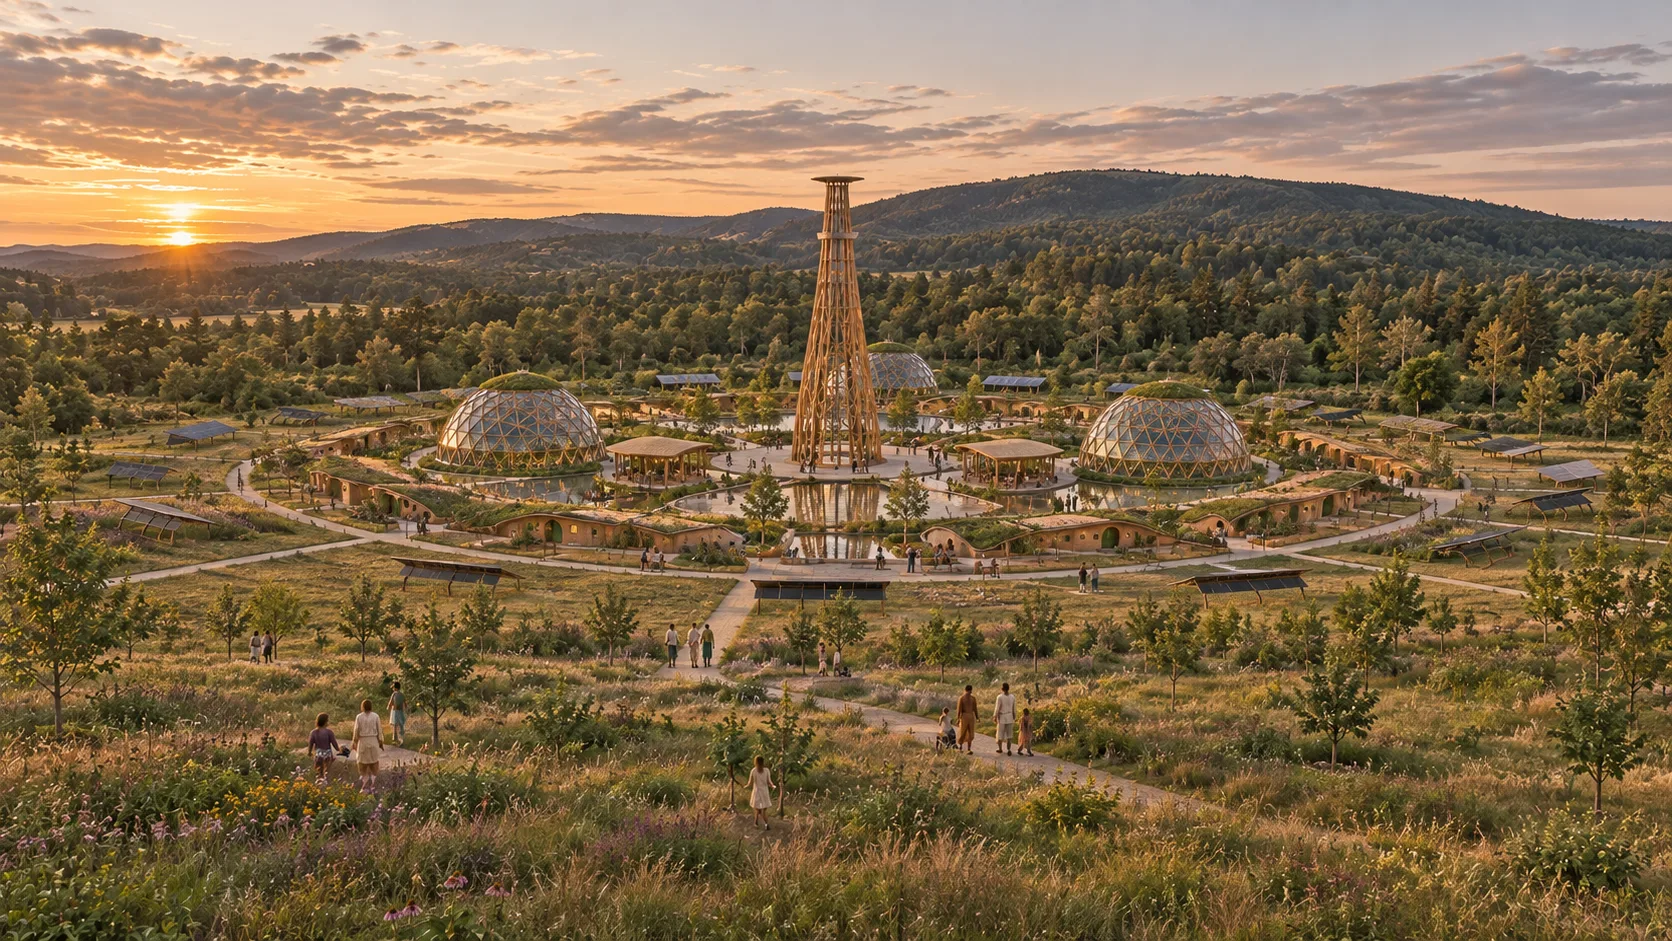
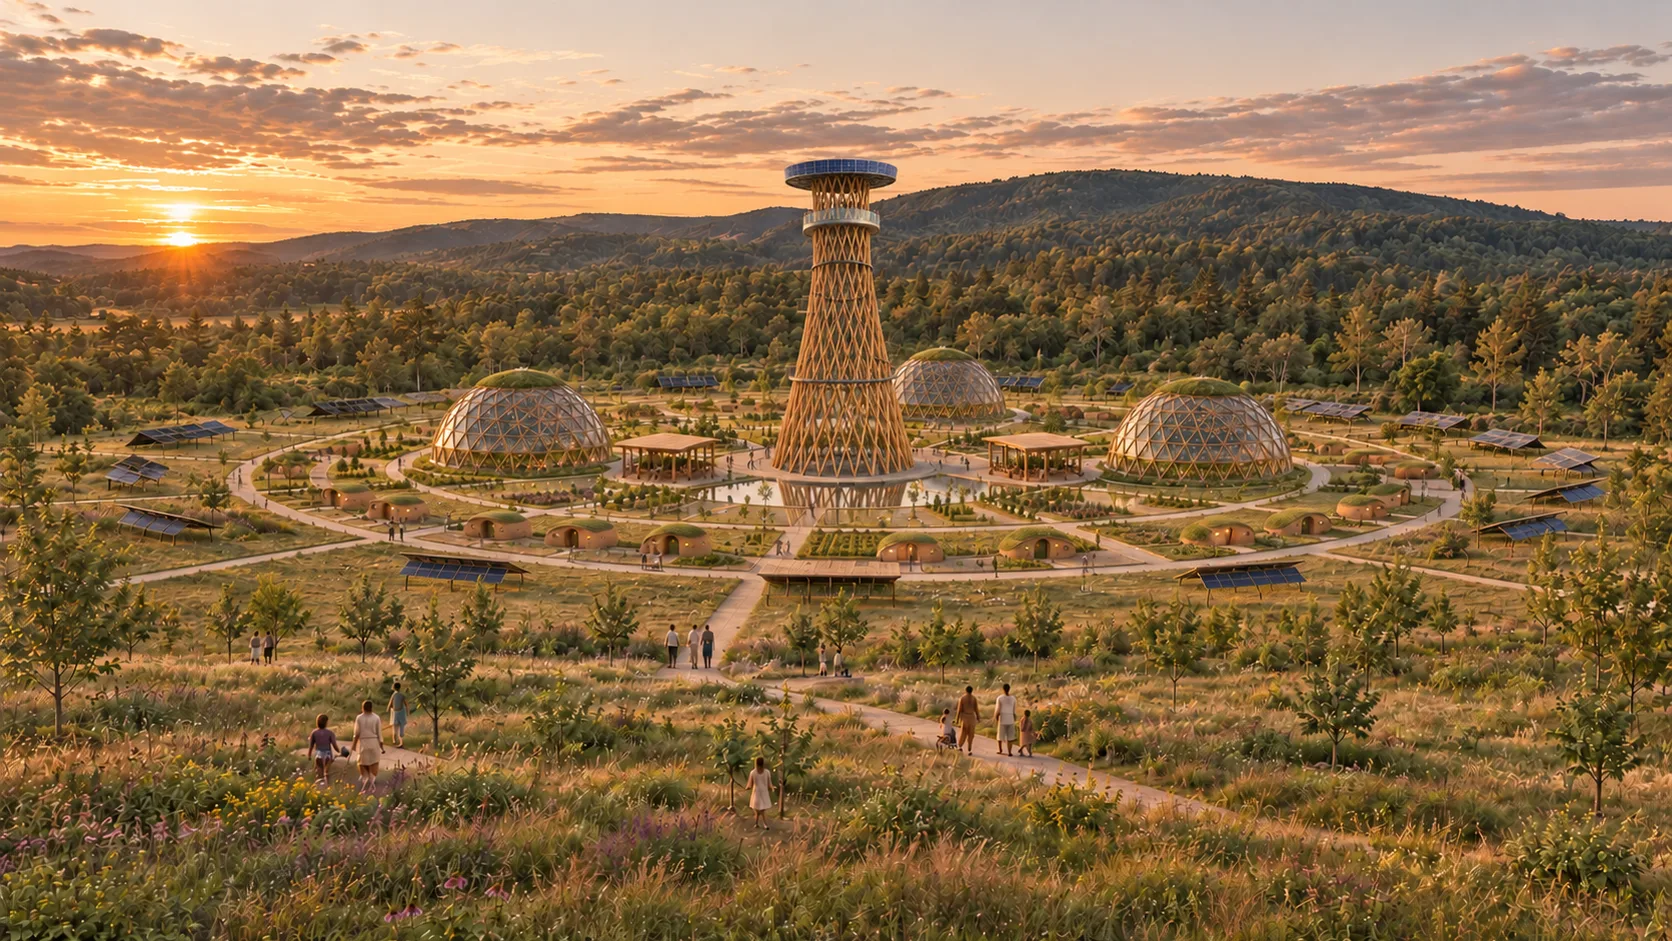
Fix homepage 3D model link, trim model views, redraw hero and spire (#24)
- Homepage: static files (the 3D model) are no longer sent through the client
  router, which showed a 404; 3D model link moved from the top menu to the footer
- 3D model: three view buttons (Aerial, Plan, Street level); other views stay
  available by URL for reference renders
- Hero and spire images redrawn to match the current build: wide-based stacked
  Shukhov-style lattice spire with a solar crown; alt text and docs updated

diff --git a/website/src/pages/index.tsx b/website/src/pages/index.tsx
@@ -12,7 +12,7 @@ export default function Home(): JSX.Element {
   const base = useBaseUrl('/');
   const history = useHistory();
   const rootRef = useRef<HTMLDivElement>(null);
-  const key = (siteConfig.customFields as {web3formsAccessKey?: string} | undefined)?.web3formsAccessKey ?? '';
+  const endpoint = (siteConfig.customFields as {formsEndpoint?: string} | undefined)?.formsEndpoint ?? '';
   const u = (p: string) => base + p;
   const img = (n: string) => base + 'img/home/' + n + '.webp';
 
@@ -20,7 +20,7 @@ export default function Home(): JSX.Element {
     const root = rootRef.current;
     if (!root) return undefined;
     root.classList.add('js');
-    return initHome(root, {base, img, key, navigate: (p) => history.push(p)});
+    return initHome(root, {base, img, endpoint, navigate: (p) => history.push(p)});
   }, []);
 
   return (
@@ -42,7 +42,7 @@ export default function Home(): JSX.Element {
           <nav aria-label="Primary">
             <ul className="nav-links" id="navLinks">
               <li><a href="#vision">Vision</a></li>
-              <li><a href="#city">The City</a><a href={u('model/index.html?phase=1')}>3D model</a></li>
+              <li><a href="#city">The City</a></li>
               <li><a href="#living">Living</a></li>
               <li><a href="#invest">Invest</a></li>
               <li><a href="#research">Research</a></li>
@@ -60,7 +60,7 @@ export default function Home(): JSX.Element {
 
       {/* HERO */}
       <section className="hero" id="top">
-        <img className="hero-img" src={img('hero')} alt="Aerial view at sunset of a modern organic city: a slender lattice spire ringed by timber-and-glass domes, green-roofed buildings, gardens and water channels beside a lake" width="1672" height="941" />
+        <img className="hero-img" src={img('hero')} alt="Aerial view at sunset of a modern organic city: a wide-based timber lattice spire with a solar crown, ringed by timber-and-glass domes, green-roofed buildings, gardens and water channels beside a lake" width="1672" height="941" />
         <div className="hero-veil"></div>
         <div className="hero-in wrap">
           <p className="eyebrow light">Stage 1 · Foundation — finishing now</p>
@@ -409,9 +409,8 @@ export default function Home(): JSX.Element {
         <div className="wrap join-in">
           <h2>Help light the first dome.</h2>
           <p>Join the founding circle for early updates, resident applications and investor materials.</p>
-          <form className="form" id="joinForm" action="https://api.web3forms.com/submit" method="POST">
-            <input type="hidden" name="subject" defaultValue="Light City Project - Founding circle signup" />
-            <input type="hidden" name="from_name" defaultValue="Light City website" />
+          <form className="form" id="joinForm" method="POST">
+            <input type="hidden" name="form" defaultValue="Founding circle signup" />
             <input type="checkbox" name="botcheck" tabIndex={-1} autoComplete="off" hidden />
             <label className="sr" htmlFor="email">Email</label>
             <input type="email" id="email" name="email" required placeholder="you@example.com" />
@@ -430,7 +429,7 @@ export default function Home(): JSX.Element {
             <a href="#top" className="brand"><svg viewBox="0 0 32 32" width="22" height="22" aria-hidden="true"><path d="M4 26a12 12 0 0 1 24 0" fill="none" stroke="currentColor" strokeWidth="1.6"/><path d="M16 26V4" stroke="currentColor" strokeWidth="1.6"/><circle cx="16" cy="4" r="2.2" fill="currentColor"/></svg><span>Light City</span></a>
             <p>A regenerative community project combining sacred architecture, proven technology and room for inner life. Built in the open.</p>
           </div>
-          <div><h4>Explore</h4><a href="#vision">Vision</a><a href="#city">The City</a><a href="#living">Living</a><a href="#invest">Invest</a><a href="#research">Research</a></div>
+          <div><h4>Explore</h4><a href="#vision">Vision</a><a href="#city">The City</a><a href={u('model/index.html?phase=1')}>3D model</a><a href="#living">Living</a><a href="#invest">Invest</a><a href="#research">Research</a></div>
           <div><h4>Documentation</h4><a href={u('docs/START-HERE')}>Start here</a><a href={u('docs/project/development-stages')}>Development stages</a><a href={u('blog')}>Updates</a><a href="https://github.com/szemkoff/light-city-project">GitHub</a><a href={u('about')}>About the project</a></div>
           <div><h4>Contact</h4><a href={u('trust')}>Living here, honestly</a><a href={u('investors')}>Investor diligence</a><a href={u('contact')}>Contact form</a><a href={u('conduct')}>Code of conduct</a><a href={u('privacy')}>Privacy</a></div>
         </div>

diff --git a/website/src/pages/contact.tsx b/website/src/pages/contact.tsx
@@ -1,16 +1,22 @@
-import React from 'react';
+import React, {useState} from 'react';
 import Link from '@docusaurus/Link';
-import {useLocation} from '@docusaurus/router';
 import useDocusaurusContext from '@docusaurus/useDocusaurusContext';
 import Site, {Section} from '../components/Site';
-import {WEB3FORMS_SUBMIT_URL, buildSiteAbsoluteUrl} from '../contactConfig';
+import {submitToSheet} from '../contactConfig';
 
 export default function Contact(): JSX.Element {
-  const location = useLocation();
-  const sent = new URLSearchParams(location.search).get('sent') === '1';
   const {siteConfig} = useDocusaurusContext();
-  const accessKey = (siteConfig.customFields as {web3formsAccessKey?: string} | undefined)?.web3formsAccessKey ?? '';
-  const nextContact = buildSiteAbsoluteUrl(siteConfig.url, siteConfig.baseUrl, 'contact?sent=1');
+  const endpoint = (siteConfig.customFields as {formsEndpoint?: string} | undefined)?.formsEndpoint ?? '';
+  const [status, setStatus] = useState<'idle' | 'sending' | 'sent' | 'error'>('idle');
+
+  async function onSubmit(e: React.FormEvent<HTMLFormElement>) {
+    e.preventDefault();
+    const form = e.currentTarget;
+    setStatus('sending');
+    try {
+      if (await submitToSheet(endpoint, form)) { setStatus('sent'); form.reset(); } else setStatus('error');
+    } catch { setStatus('error'); }
+  }
 
   return (
     <Site
@@ -23,12 +29,11 @@ export default function Contact(): JSX.Element {
       <Section>
         <div className="pg-form-wrap">
           <div>
-            {sent ? <p className="pg-success" role="status">Thank you. Your message was submitted.</p> : null}
-            {accessKey ? (
-              <form className="pg-form" action={WEB3FORMS_SUBMIT_URL} method="POST">
-                <input type="hidden" name="access_key" value={accessKey} />
-                <input type="hidden" name="subject" value="Light City Project - Contact form" />
-                <input type="hidden" name="redirect" value={nextContact} />
+            {status === 'sent' ? <p className="pg-success" role="status">Thank you. Your message was submitted.</p> : null}
+            {status === 'error' ? <p className="pg-success" role="alert">Something went wrong. Please try again in a moment.</p> : null}
+            {endpoint ? (
+              <form className="pg-form" method="POST" onSubmit={onSubmit}>
+                <input type="hidden" name="form" value="Contact" />
                 <input type="checkbox" name="botcheck" tabIndex={-1} autoComplete="off" style={{display: 'none'}} />
                 <div className="pg-field">
                   <label htmlFor="contact-name">Name</label>
@@ -53,12 +58,11 @@ export default function Contact(): JSX.Element {
                   <label htmlFor="contact-message">Message</label>
                   <textarea id="contact-message" name="message" required placeholder="Briefly describe your interest, timing and how we can help." />
                 </div>
-                <button type="submit" className="btn">Send message</button>
-                <p className="pg-small">Delivered through Web3Forms. You will be brought back here to confirm.</p>
+                <button type="submit" className="btn" disabled={status === 'sending'}>{status === 'sending' ? 'Sending…' : 'Send message'}</button>
               </form>
             ) : (
               <div className="pg-form" role="status">
-                <p><strong>The form is not active in this build.</strong> To enable it, add the <code>WEB3FORMS_ACCESS_KEY</code> secret under Repository → Settings → Secrets and variables → Actions, then re-run the deploy workflow.</p>
+                <p><strong>The form is not active in this build.</strong> To enable it, add the <code>FORMS_ENDPOINT_URL</code> secret under Repository → Settings → Secrets and variables → Actions, then re-run the deploy workflow.</p>
               </div>
             )}
           </div>

diff --git a/website/src/components/Home/initHome.ts b/website/src/components/Home/initHome.ts
@@ -1,7 +1,8 @@
 /* eslint-disable */
 // @ts-nocheck
 // Interactive behaviour for the homepage (ported from the front-end concept).
-export interface HomeOpts { base: string; img: (name: string) => string; key: string; navigate: (path: string) => void; }
+import {submitToSheet} from '../../contactConfig';
+export interface HomeOpts { base: string; img: (name: string) => string; endpoint: string; navigate: (path: string) => void; }
 
 export default function initHome(root: HTMLElement, opts: HomeOpts): () => void {
 
@@ -250,15 +251,14 @@ if (!reduce) {
   on(window, 'scroll', () => { const r = bandSec.getBoundingClientRect(); if (r.bottom > 0 && r.top < innerHeight) band.style.transform = `translateY(${(r.top / innerHeight) * -8}%)`; }, { passive: true });
 }
 
-/* ---------- FORM (Web3Forms; key injected at build from WEB3FORMS_ACCESS_KEY) ---------- */
+/* ---------- FORM (Google Sheet + email via Apps Script; endpoint injected at build from FORMS_ENDPOINT_URL) ---------- */
 $('#joinForm').onsubmit = async (e: Event) => {
   e.preventDefault();
-  const f = e.target as HTMLFormElement, m = $('#formMsg'), btn = f.querySelector('button') as HTMLButtonElement, key = opts.key;
-  if (!key) { m.innerHTML = `Signups open soon. Until then, please use the <a href="${opts.base}contact">contact form</a>.`; return; }
-  const d = new FormData(f); d.append('access_key', key); btn.disabled = true; m.textContent = 'Sending…';
+  const f = e.target as HTMLFormElement, m = $('#formMsg'), btn = f.querySelector('button') as HTMLButtonElement;
+  if (!opts.endpoint) { m.innerHTML = `Signups open soon. Until then, please use the <a href="${opts.base}contact">contact form</a>.`; return; }
+  btn.disabled = true; m.textContent = 'Sending…';
   try {
-    const r = await fetch(f.action, { method: 'POST', headers: { Accept: 'application/json' }, body: d }); const j = await r.json().catch(() => ({}));
-    if (r.ok && j.success) { m.textContent = 'Thank you — you’re on the list. We’ll be in touch as the next stage opens.'; f.reset(); } else throw 0;
+    if (await submitToSheet(opts.endpoint, f)) { m.textContent = 'Thank you — you’re on the list. We’ll be in touch as the next stage opens.'; f.reset(); } else throw 0;
   } catch { m.innerHTML = `Something went wrong. Please try again or use the <a href="${opts.base}contact">contact form</a>.`; }
   finally { btn.disabled = false; }
 };
@@ -268,7 +268,9 @@ on(root, 'click', (e: MouseEvent) => {
   const a = (e.target as HTMLElement).closest('a') as HTMLAnchorElement | null;
   if (!a || e.defaultPrevented || e.button !== 0 || e.metaKey || e.ctrlKey || e.shiftKey || a.target) return;
   const href = a.getAttribute('href') || '';
-  if (href.startsWith(opts.base) && !href.startsWith('#')) { e.preventDefault(); opts.navigate(href); }
+  // Static files (the 3D model, PDFs, images) are not app routes: let the browser load them.
+  const isFile = /\.[a-z0-9]+$/i.test(href.split(/[?#]/)[0]);
+  if (href.startsWith(opts.base) && !href.startsWith('#') && !isFile) { e.preventDefault(); opts.navigate(href); }
 });
 
 return () => { offs.forEach(fn => fn()); io.disconnect(); };

diff --git a/website/src/pages/city.tsx b/website/src/pages/city.tsx
@@ -122,7 +122,7 @@ export default function City(): JSX.Element {
 
       <Section alt id="phases" eyebrow="Growth by phase" title="Built in steps, each one proven before the next." lead="One radial plan grows outward from the same spire and plaza, and nothing built in one phase is torn down in the next. One 3D model shows all three: open it at any phase and switch phases to turn on what each step adds.">
         <Cards items={[
-          {to: 'pathname:///model/index.html?phase=1', more: 'Open the model at Phase 1', img: 'city-phase-1', alt: 'Aerial view of the Phase 1 pilot hamlet: a slender spire on a round plaza, three glazed domes, a ring of earth homes and solar arrays in meadow, surrounded by woodland', kicker: 'Phase 1 · 200 residents', title: 'Pilot hamlet', text: 'A 90 m spire, one temple and two learning pavilions, three 40 m domes and about 30 earth homes on a 20–30 acre core. Reserved dome plots hold meadow and a tree nursery.'},
+          {to: 'pathname:///model/index.html?phase=1', more: 'Open the model at Phase 1', img: 'city-phase-1', alt: 'Aerial view of the Phase 1 pilot hamlet: a lattice spire on a round plaza, three glazed domes, a ring of earth homes and solar arrays in meadow, surrounded by woodland', kicker: 'Phase 1 · 200 residents', title: 'Pilot hamlet', text: 'A 90 m spire, one temple and two learning pavilions, three 40 m domes and about 30 earth homes on a 20–30 acre core. Reserved dome plots hold meadow and a tree nursery.'},
           {to: 'pathname:///model/index.html?phase=2', more: 'Open the model at Phase 2', img: 'city-phase-2', alt: 'Aerial view of the Phase 2 village: eight domes around the spire, rings of earth-home courtyard clusters and an outer belt of solar rows and greenhouses', kicker: 'Phase 2 · 1,500 residents', title: 'Village', text: 'Everything from Phase 1 stays. The spire gains two sections (150 m), five domes fill reserved plots, courtyard clusters of earth homes form a new ring and a food and energy belt is added. About 160 acres.'},
           {to: 'pathname:///model/index.html?phase=3', more: 'Open the model at Phase 3', img: 'city-phase-3', alt: 'Aerial view of the Phase 3 town: twelve domes around the spire, six large district domes, crescents of green-roofed timber terraces and a wide belt of solar and greenhouses', kicker: 'Phase 3 · 8,000+ residents', title: 'Town', text: 'The village and its belt stay as built. The spire reaches 240 m and the last ring domes are filled; outside the green belt come timber terraces with green roofs, six 80 m district domes and a new outer belt. About 1.2 square miles.'},
         ]} />

diff --git a/website/src/contactConfig.ts b/website/src/contactConfig.ts
@@ -1,13 +1,23 @@
 /**
- * Contact forms POST to Web3Forms (https://web3forms.com). The destination inbox is set in the
- * Web3Forms dashboard when you create the access key — do not put the project email in page HTML.
- * Build with WEB3FORMS_ACCESS_KEY (GitHub Actions secret) so the key is not committed.
+ * All site forms (founding-circle signup, contact) POST to one Google Apps Script web app.
+ * The script appends a row to a Google Sheet and emails a notification. The notification
+ * address lives only in the script's Script Properties — never in this repo or page HTML.
+ * Build with FORMS_ENDPOINT_URL (GitHub Actions secret). See integrations/google-sheets/README.md.
  */
-export const WEB3FORMS_SUBMIT_URL = 'https://api.web3forms.com/submit';
-
 export function buildSiteAbsoluteUrl(siteUrl: string, baseUrl: string, path: string = ''): string {
   const u = siteUrl.replace(/\/$/, '');
   const b = baseUrl.endsWith('/') ? baseUrl : `${baseUrl}/`;
   const p = path.startsWith('/') ? path.slice(1) : path;
   return `${u}${b}${p}`;
+}
+
+/** Submit a form to the Apps Script endpoint. Resolves true on success. */
+export async function submitToSheet(endpoint: string, form: HTMLFormElement): Promise<boolean> {
+  const data = new URLSearchParams();
+  new FormData(form).forEach((v, k) => data.append(k, String(v)));
+  data.append('page', window.location.pathname);
+  // Simple (non-preflighted) request; Apps Script replies with JSON after a redirect.
+  const r = await fetch(endpoint, {method: 'POST', body: data});
+  const j = await r.json().catch(() => ({} as {ok?: boolean}));
+  return r.ok && j.ok === true;
 }

diff --git a/website/src/pages/privacy.tsx b/website/src/pages/privacy.tsx
@@ -8,7 +8,7 @@ export default function Privacy(): JSX.Element {
       <Section>
         <div className="pg-prose">
           <p>This site is hosted on GitHub Pages and built with Docusaurus. Like most static sites, hosting providers may process standard server logs (such as IP address and user agent) when you load pages.</p>
-          <p>If you use the <Link to="/contact">contact form</Link> or the founding circle signup, your message is sent through a third-party form provider (Web3Forms). The project does not publish a team email address on this website. There are no account systems or payment flows on this site at this time.</p>
+          <p>If you use the <Link to="/contact">contact form</Link> or the founding circle signup, your submission is stored in a private Google Sheet (via Google Apps Script) that only the project team can access, and the team is notified by email. The project does not publish a team email address on this website. There are no account systems or payment flows on this site at this time.</p>
           <p>For the open-source repository and issue tracker, see <a href="https://docs.github.com/en/site-policy/privacy-policies/github-general-privacy-statement" target="_blank" rel="noopener noreferrer">GitHub's privacy statement</a> as it applies to your use of GitHub.</p>
         </div>
       </Section>

diff --git a/website/static/model/index.html b/website/static/model/index.html
@@ -56,9 +56,11 @@
   app = start(c, {phase, interactive: !render, view: q.get('view') || 'aerial', width: render ? +q.get('w') : 0, height: render ? +q.get('h') : 0});
   showPhase(phase);
   const box = document.getElementById('views');
-  for (const [k, v] of Object.entries(VIEWS)) {
+  // Three view buttons for visitors; the other views stay available by URL (?view=) for reference renders.
+  const BUTTONS = {aerial: 'Aerial', top: 'Plan', plaza: 'Street level'};
+  for (const [k, label] of Object.entries(BUTTONS)) {
     const b = document.createElement('button');
-    b.textContent = v.label; b.setAttribute('aria-pressed', k === (q.get('view') || 'aerial'));
+    b.textContent = label; b.title = VIEWS[k].label; b.setAttribute('aria-pressed', k === (q.get('view') || 'aerial'));
     b.onclick = () => { app.setView(k); box.querySelectorAll('button').forEach(x => x.setAttribute('aria-pressed', x === b)); };
     box.appendChild(b);
   }

diff --git a/website/docusaurus.config.ts b/website/docusaurus.config.ts
@@ -23,7 +23,7 @@ const config: Config = {
   ],
 
   customFields: {
-    web3formsAccessKey: process.env.WEB3FORMS_ACCESS_KEY ?? '',
+    formsEndpoint: process.env.FORMS_ENDPOINT_URL ?? '',
   },
 
   i18n: {

diff --git a/website/docs/design/visual-language.md b/website/docs/design/visual-language.md
@@ -37,7 +37,7 @@ Use this style note at the end of every image prompt:
 
 > Curved glulam and CLT, timber gridshells, glass, living walls, rammed earth and clay plaster, warm shielded lighting, local stone, and only occasionally a single vertical quartz point on a pedestal. People of many ethnicities, ages and body types in varied, natural clothing: linen and cotton trousers, skirts and dresses, tunics, knitwear, shawls and work wear in earthy tones with warm accents, almost no denim. Mixed daylight and weather, not always sunset. Realistic documentary photo of a place that could be built today. No text or logos. Avoid medieval, rustic cabins and fantasy.
 
-- **Scale.** Domes 30–45 m across, 3–5 levels; the spire is slender, not a skyscraper.
+- **Scale.** Domes 30–45 m across, 3–5 levels; the spire is a wide-based lattice tower (36 m base, 90 m in Phase 1), not a skyscraper.
 - **People.** Diverse ages, ethnicities, body types and personal styles, doing ordinary things: cooking, working, building, resting.
 - **Clothing.** Varied and organic-looking, never a uniform look: natural fibres, many cuts (trousers, skirts, dresses, tunics, overalls, knitwear), earthy colors with some warmth. Avoid a crowd in jeans, and avoid costumes, robes or matching outfits.
 - **Technology.** Visible but calm: solar glazing, batteries in a timber room, sensors that look like furniture.

diff --git a/website/docs/design/architecture.md b/website/docs/design/architecture.md
@@ -102,7 +102,7 @@ The city grows in three phases from one radial plan. It is one interactive 3D mo
 
 *Top views of the three 3D models. Each panel is drawn at its own scale.*
 
-![Aerial view of the Phase 1 pilot hamlet: a slender spire on a round plaza, three glazed domes, a ring of earth homes and solar arrays in meadow, surrounded by woodland](/img/home/city-phase-1.webp)
+![Aerial view of the Phase 1 pilot hamlet: a lattice spire on a round plaza, three glazed domes, a ring of earth homes and solar arrays in meadow, surrounded by woodland](/img/home/city-phase-1.webp)
 
 **Phase 1 - Pilot Hamlet** (built in Stage 5, Dec 2028 – Nov 2031):
 - **Population**: 200 residents target (150-300 range)

diff --git a/website/docs/concepts/purpose-and-mission.md b/website/docs/concepts/purpose-and-mission.md
@@ -1,6 +1,6 @@
 # Purpose and Mission
 
-![Light City at dusk: timber domes, gardens and a slender spire](/img/home/hero.webp)
+![Light City at dusk: timber domes, gardens and a wide-based lattice spire with a solar crown](/img/home/hero.webp)
 
 *Light City as we plan to build it: a 200-person hamlet of timber domes, gardens and a solar spire.*
 
